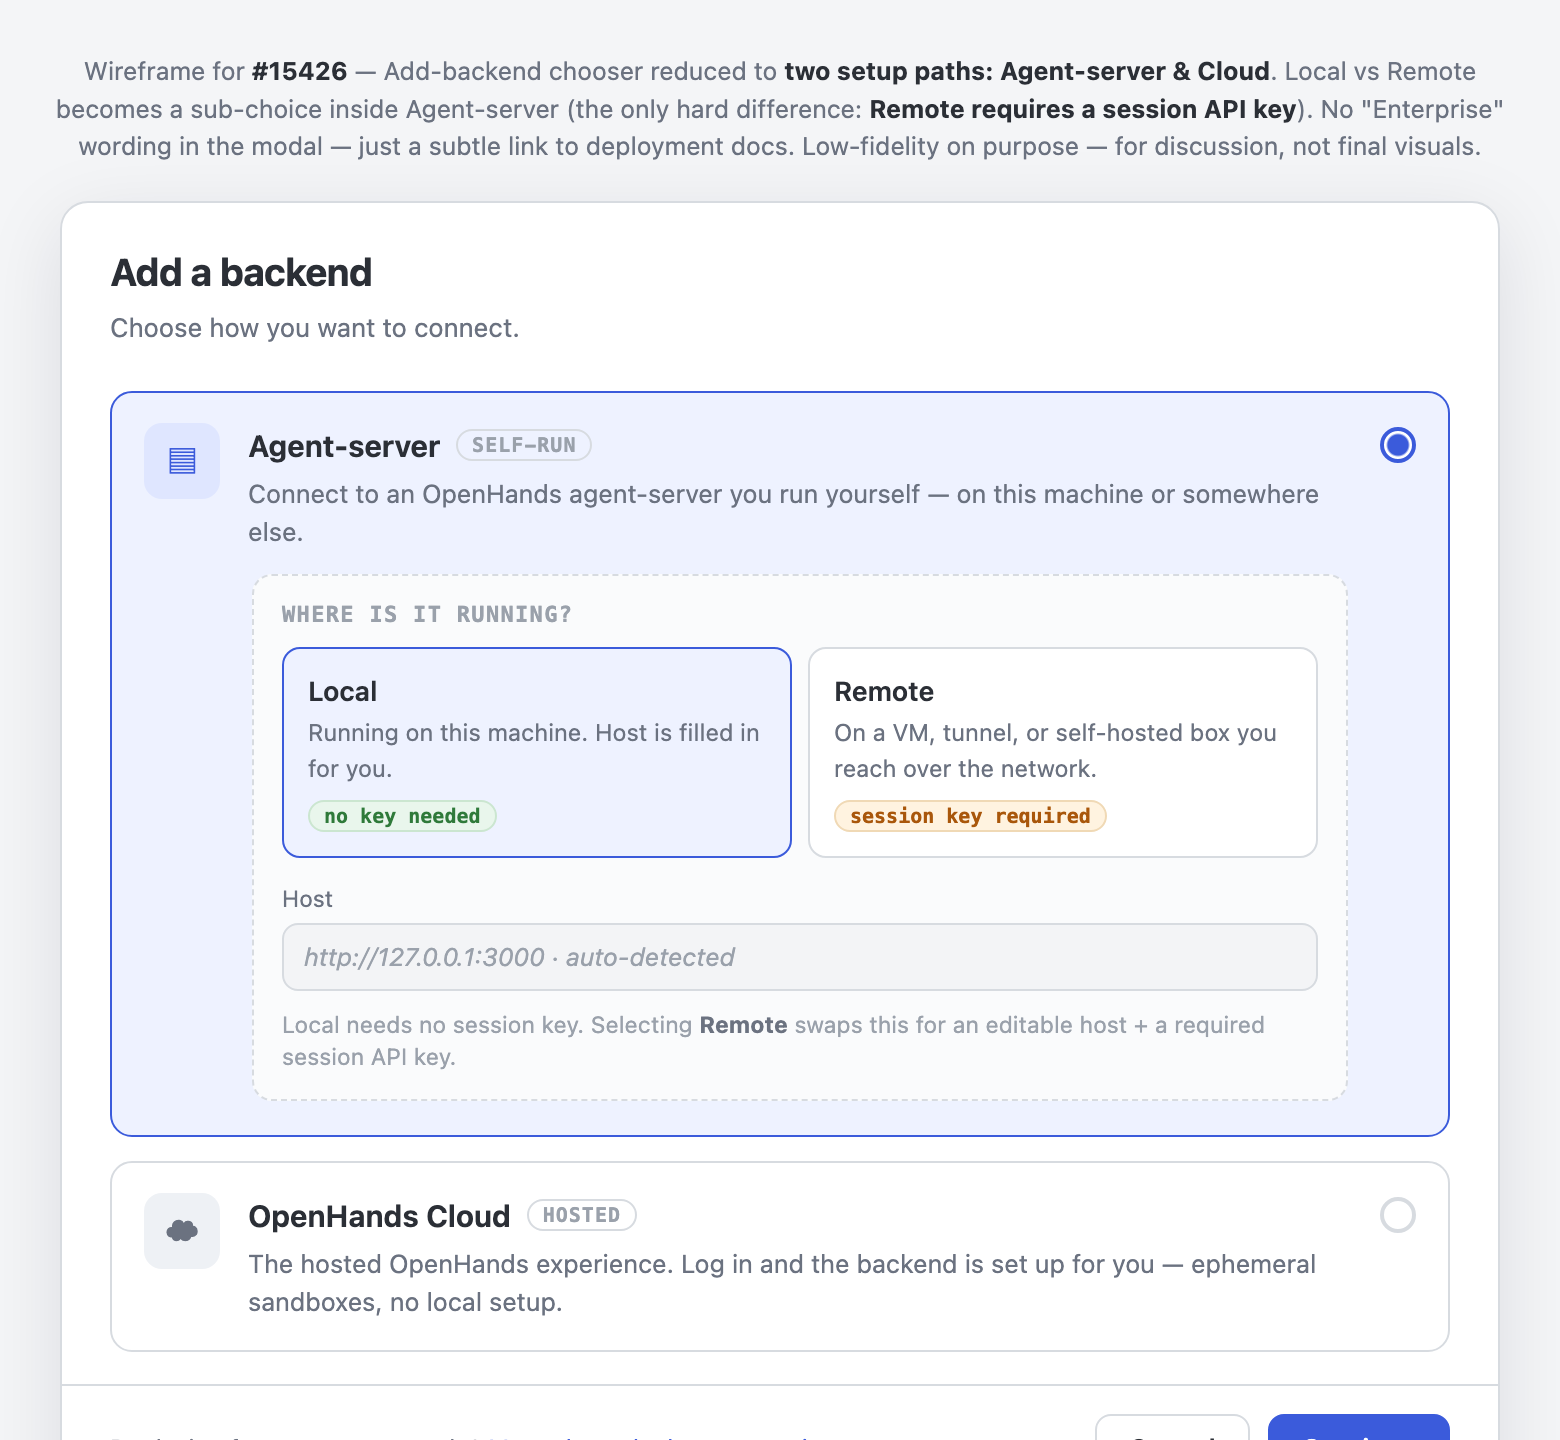
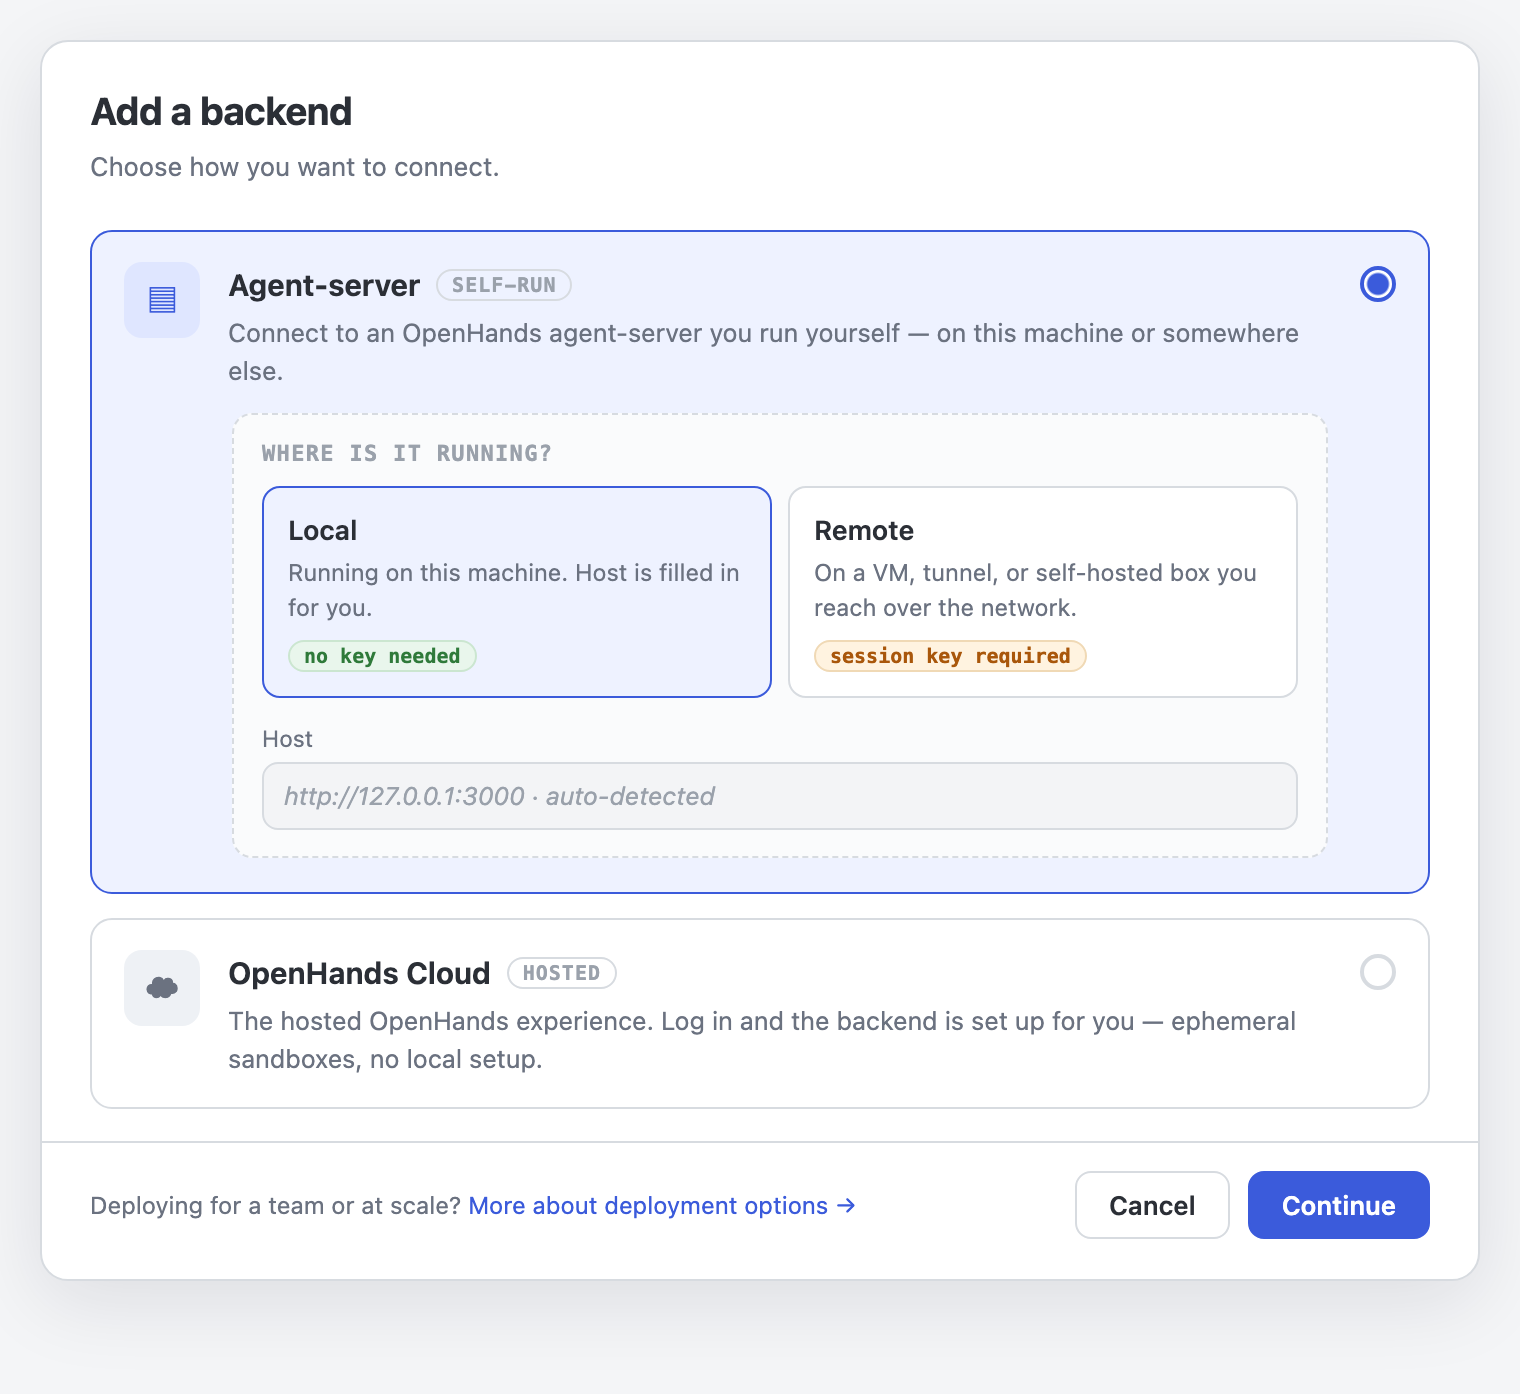
wire: PNG shows only the modal (reviewer commentary hidden in bare mode) — OpenHands#15426

diff --git a/wire/backend-selector.html b/wire/backend-selector.html
@@ -66,9 +66,12 @@
   .btn{height:34px;padding:0 16px;border-radius:8px;font-weight:600;font-size:13px;display:grid;place-items:center;border:1px solid var(--line);background:#fff;color:var(--ink)}
   .btn.pri{background:var(--accent);border-color:var(--accent);color:#fff}
   .cap{max-width:720px;color:var(--faint);font-size:11.5px;margin:14px 4px 0;font-family:var(--mono)}
+  /* bare mode = just the modal, exactly what the user would see (no reviewer commentary) */
+  body.bare{padding:20px}
+  body.bare .note, body.bare .cap, body.bare .hint{display:none}
 </style>
 </head>
-<body>
+<body class="bare">
   <p class="note">Wireframe for <b>#15426</b> — Add-backend chooser reduced to <b>two setup paths: Agent-server &amp; Cloud</b>. Local vs Remote becomes a sub-choice inside Agent-server (the only hard difference: <b>Remote requires a session API key</b>). No "Enterprise" wording in the modal — just a subtle link to deployment docs. Low-fidelity on purpose — for discussion, not final visuals.</p>
 
   <div class="modal">
